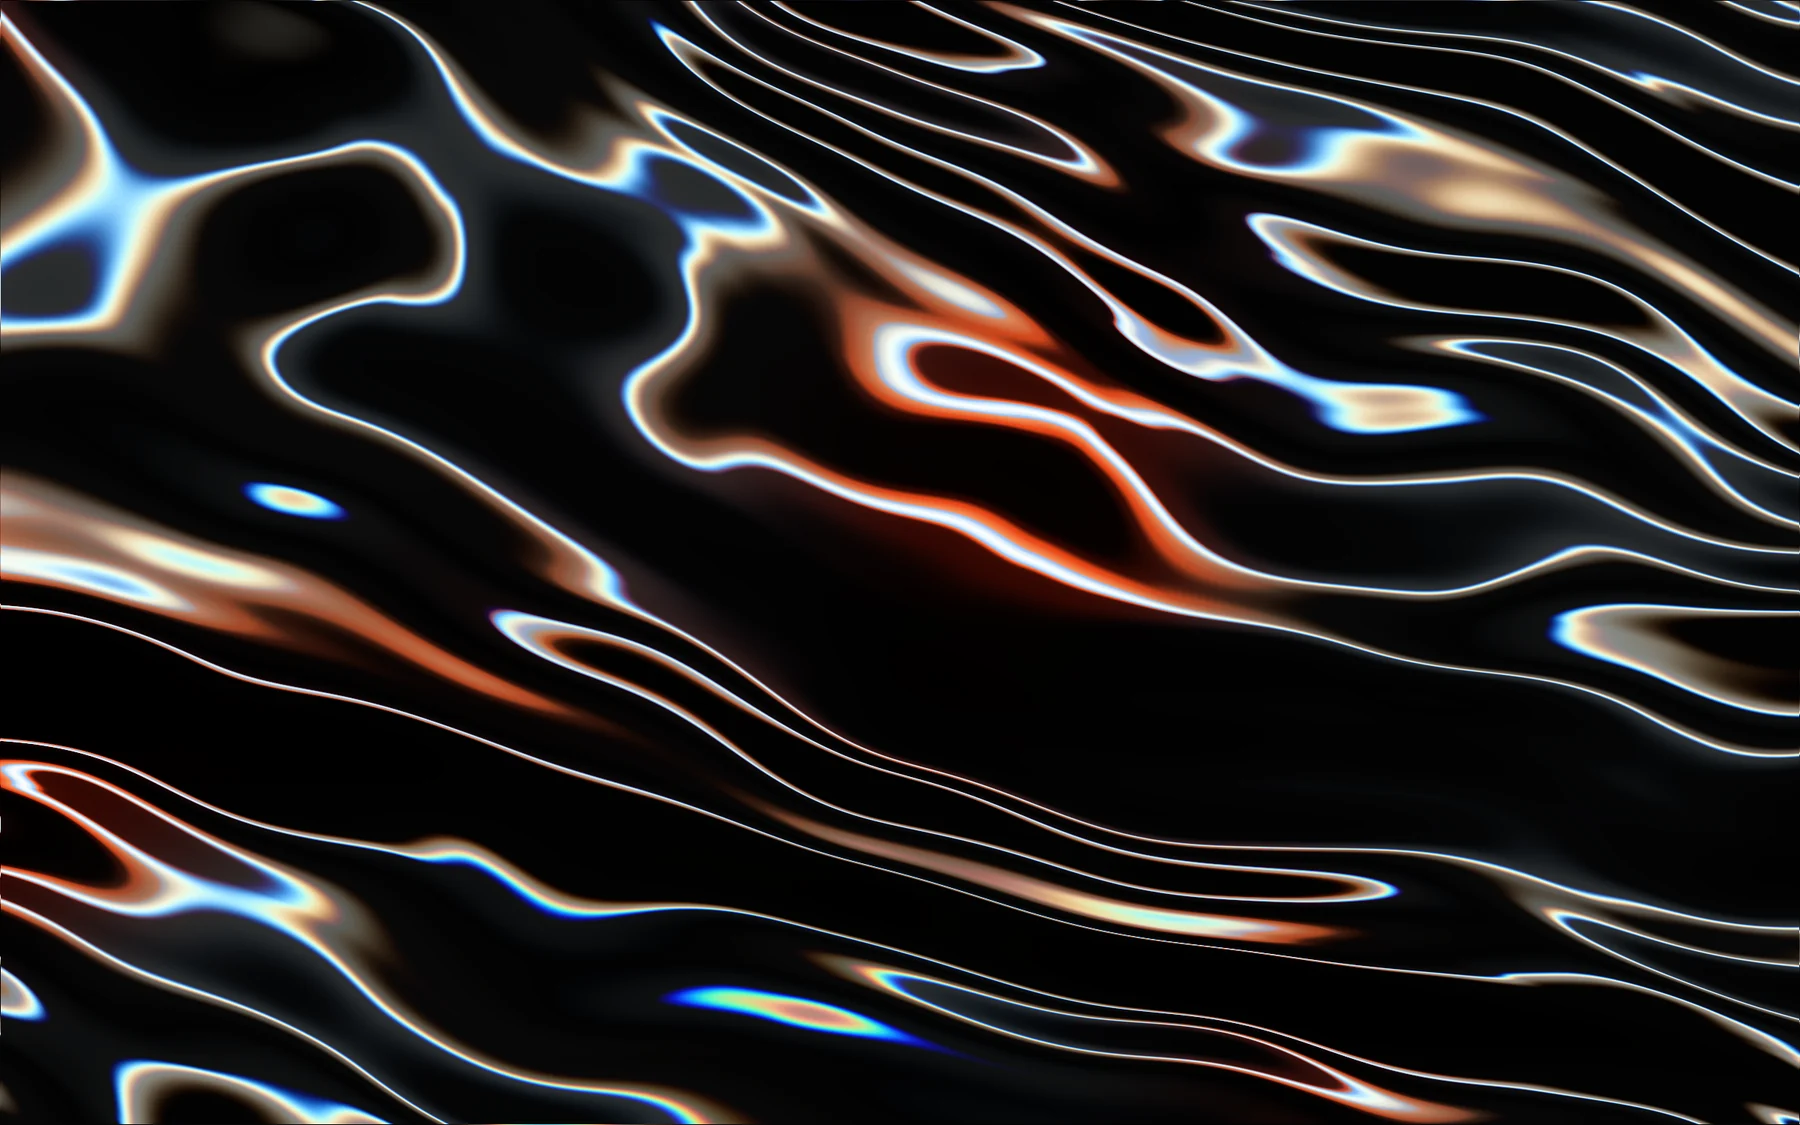
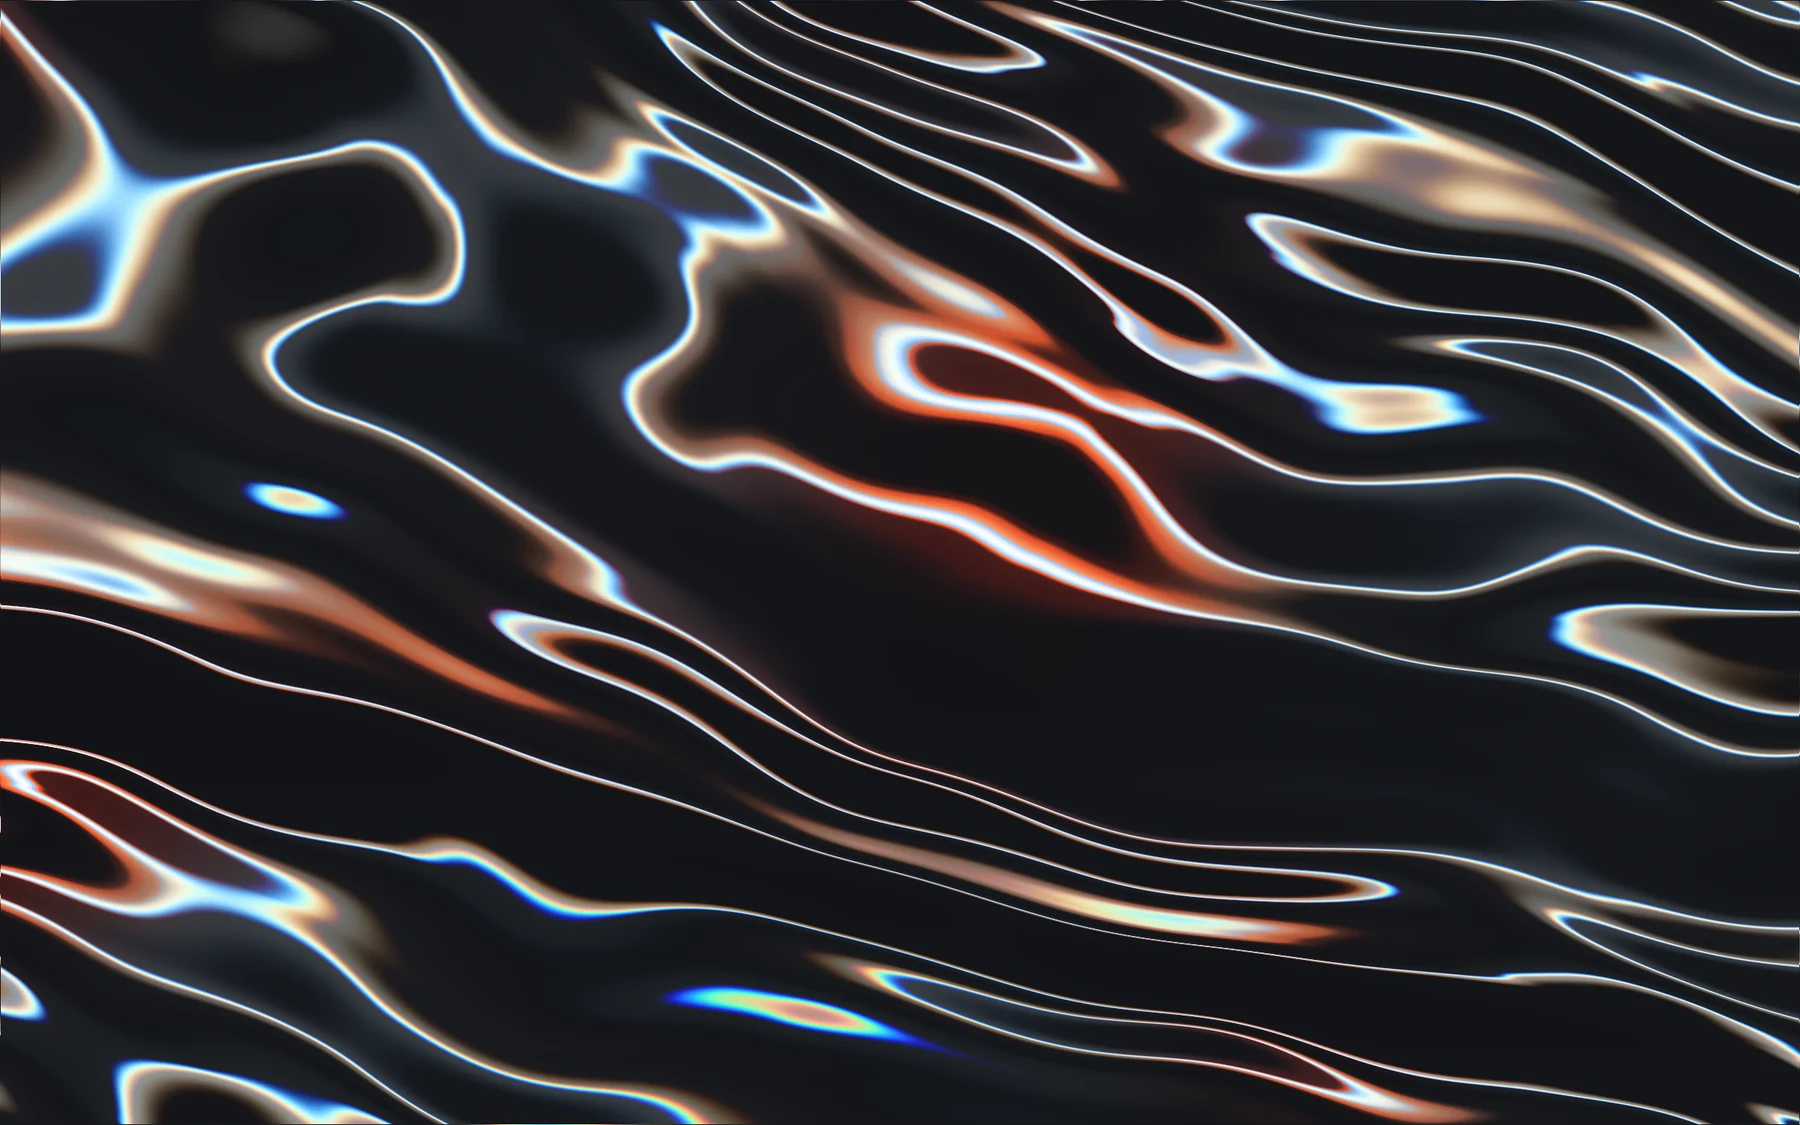
style: troca o preto puro do tema escuro por grafite e leva a arte junto

diff --git a/src/styles/tokens.css b/src/styles/tokens.css
@@ -67,10 +67,10 @@
     --cromo-letras: url('../assets/arte/letras-escuro.webp');
 
     /* Cromo negro */
-    --fundo: #050608;
-    --superficie: #0e1014;
-    --superficie-2: #181b21;
-    --linha: #2c313a;
+    --fundo: #111317;
+    --superficie: #181b20;
+    --superficie-2: #21252b;
+    --linha: #343a44;
     --texto: #eff2f6;
     --texto-suave: #a6aeba;
     --destaque: #8ec5ff;
@@ -79,7 +79,7 @@
     --foco: #8ec5ff;
 
     --cromo-botao: linear-gradient(180deg, #f8fafc 0%, #ccd3dc 46%, #929ca9 52%, #e1e6ec 100%);
-    --cromo-botao-texto: #050608;
+    --cromo-botao-texto: #111317;
     --cromo-borda: linear-gradient(115deg, #59616d, #f4f6f8 28%, #3a404a 46%, #cfd6df 62%, #ff8a5c 78%, #8ec5ff 90%, #59616d);
     --cromo-regua: linear-gradient(90deg, transparent, #59616d 18%, #8ec5ff 62%, #ff8a5c 80%, transparent);
     --sombra-emblema: none;
@@ -90,10 +90,10 @@
   color-scheme: dark;
   --cromo-letras: url('../assets/arte/letras-escuro.webp');
 
-  --fundo: #050608;
-  --superficie: #0e1014;
-  --superficie-2: #181b21;
-  --linha: #2c313a;
+  --fundo: #111317;
+  --superficie: #181b20;
+  --superficie-2: #21252b;
+  --linha: #343a44;
   --texto: #eff2f6;
   --texto-suave: #a6aeba;
   --destaque: #8ec5ff;
@@ -102,7 +102,7 @@
   --foco: #8ec5ff;
 
   --cromo-botao: linear-gradient(180deg, #f8fafc 0%, #ccd3dc 46%, #929ca9 52%, #e1e6ec 100%);
-  --cromo-botao-texto: #050608;
+  --cromo-botao-texto: #111317;
   --cromo-borda: linear-gradient(115deg, #59616d, #f4f6f8 28%, #3a404a 46%, #cfd6df 62%, #ff8a5c 78%, #8ec5ff 90%, #59616d);
   --cromo-regua: linear-gradient(90deg, transparent, #59616d 18%, #8ec5ff 62%, #ff8a5c 80%, transparent);
   --sombra-emblema: none;

diff --git a/src/lib/og.ts b/src/lib/og.ts
@@ -57,7 +57,7 @@ export async function gerarImagemOg({ rotulo, titulo, apoio }: DadosOg): Promise
       ],
     },
   );
-  const imagem = await sharp({ create: { width: LARGURA, height: ALTURA, channels: 3, background: '#050608' } })
+  const imagem = await sharp({ create: { width: LARGURA, height: ALTURA, channels: 3, background: '#111317' } })
     .composite([
       { input: arte, left: esquerda, top: 0 },
       { input: Buffer.from(svg), left: 0, top: 0 },
